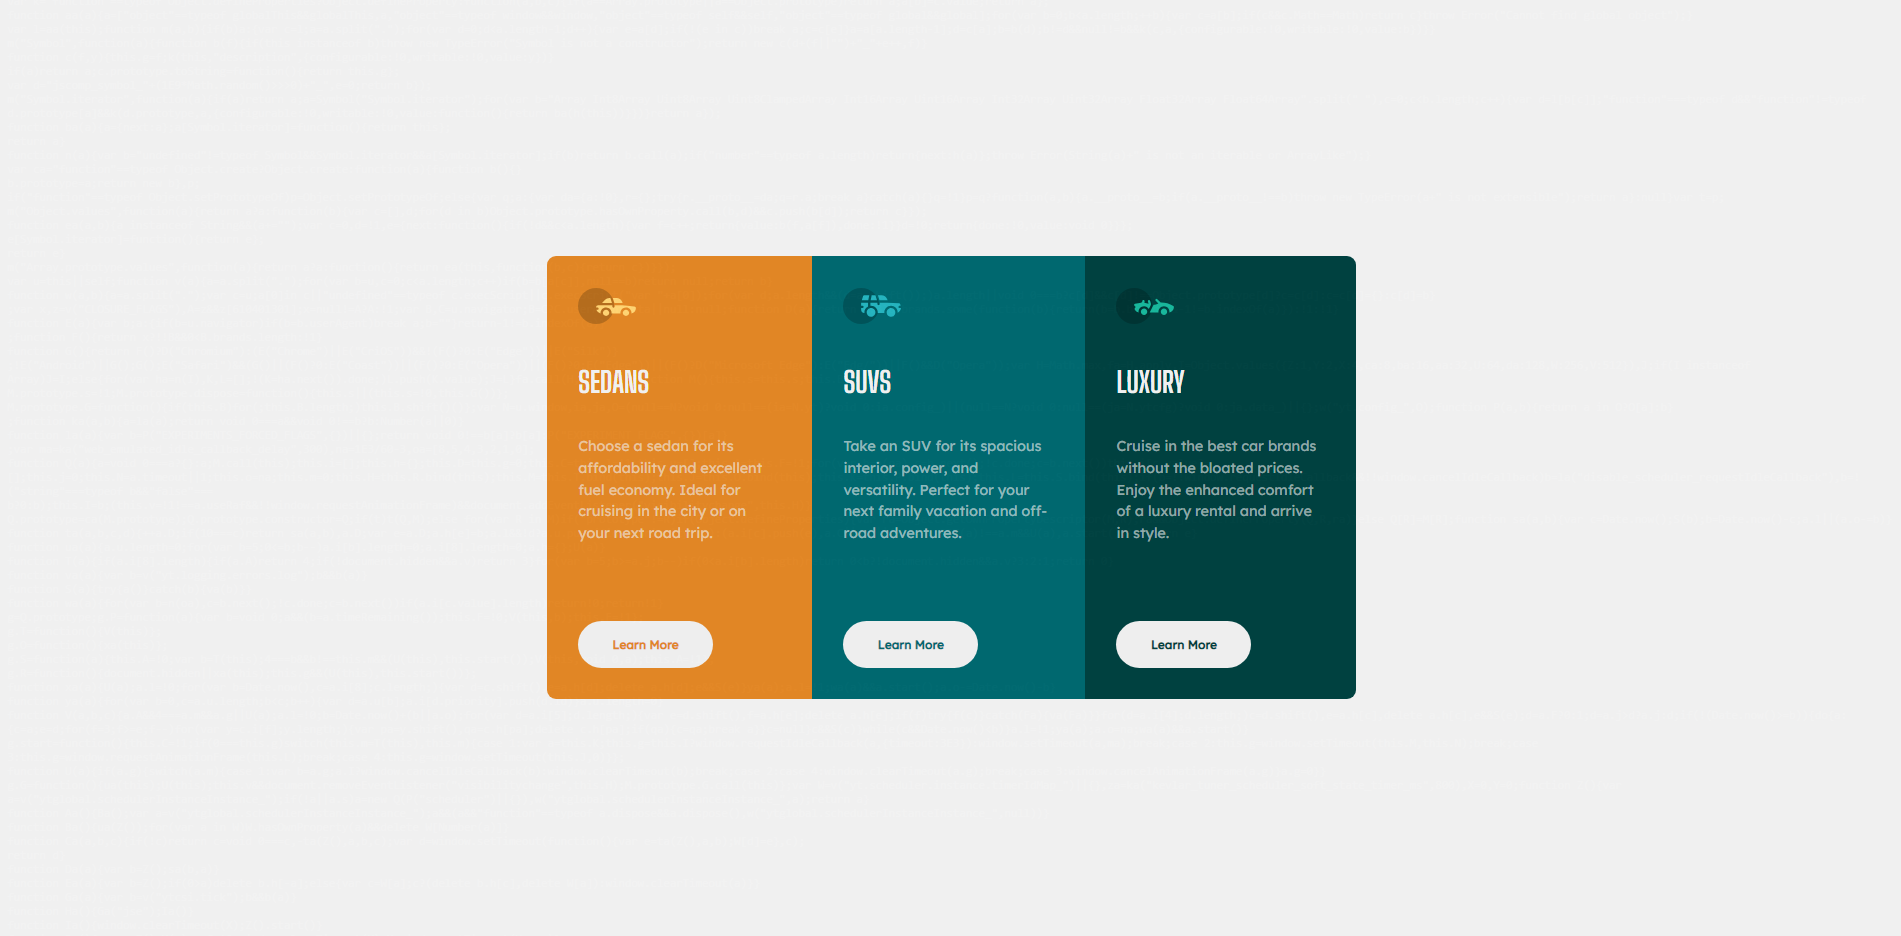
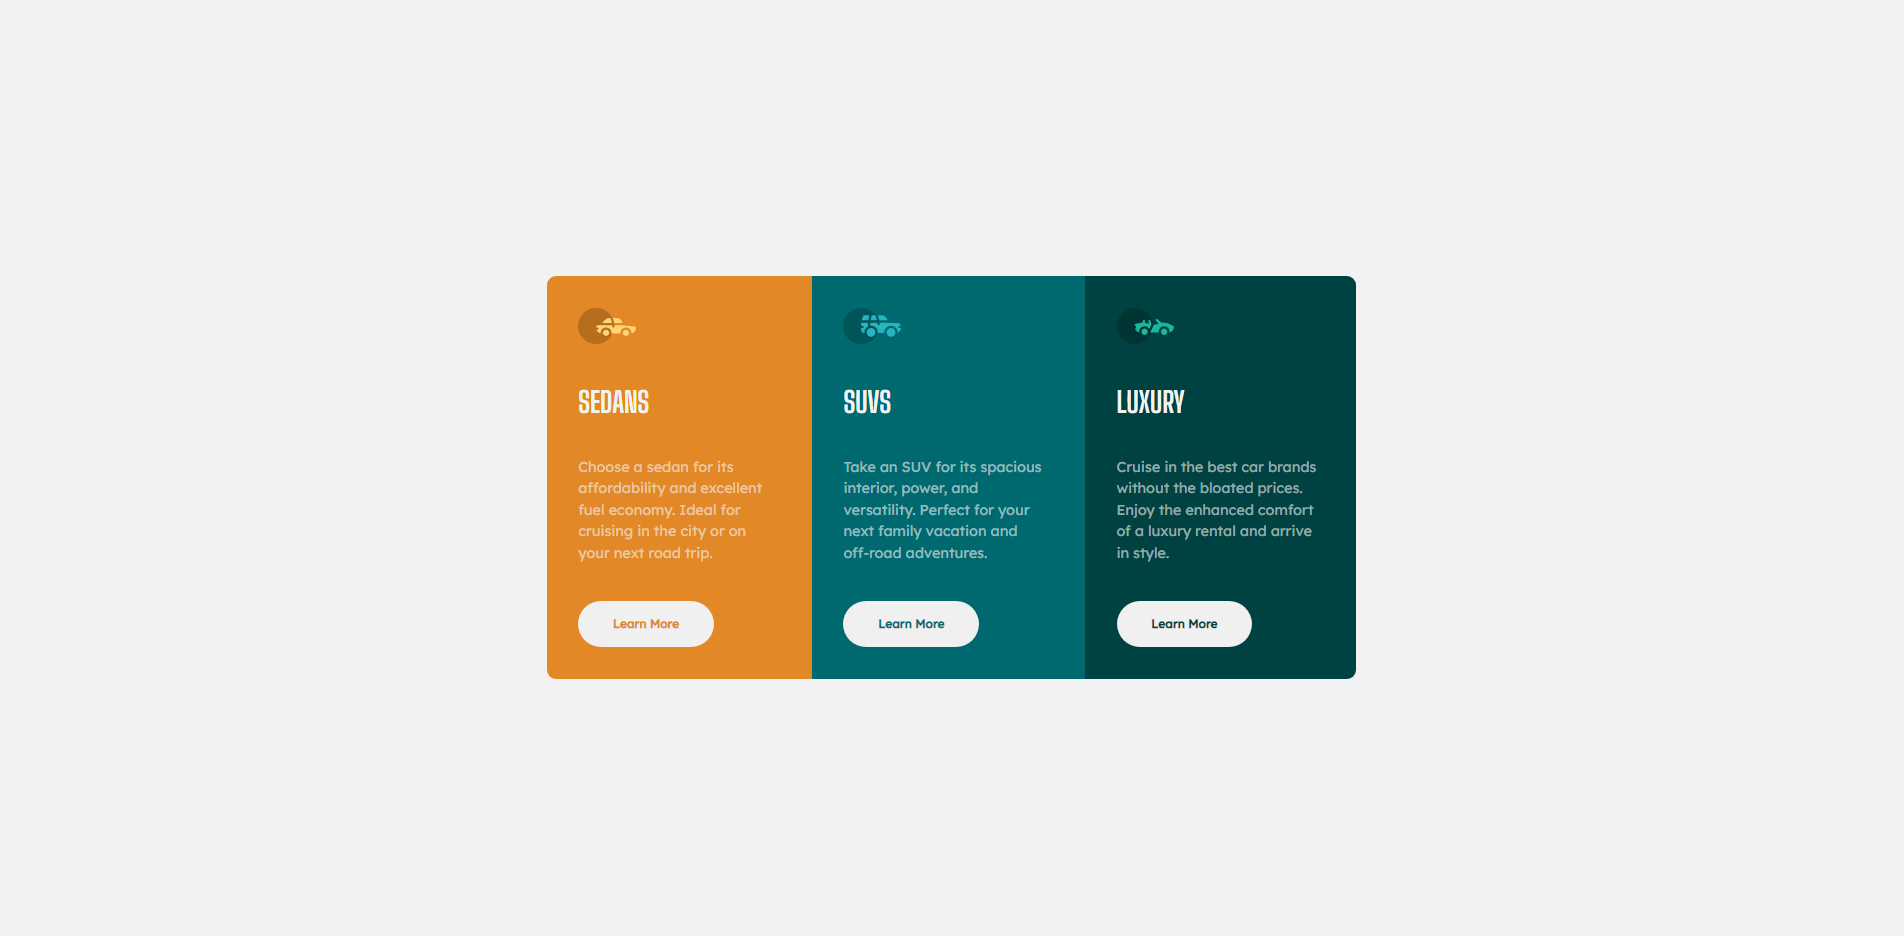
commit

Changed region(s): [[0.2793, 0.2479, 0.7138, 0.7746]]

diff --git a/style.css b/style.css
@@ -45,12 +45,14 @@ body{
     line-height: 1.5;
     opacity: 0.6;
     padding-bottom: 45px;
+    font-size: 1rem;
+    padding: 0px 9px 0px 0px;
 }
 .card_button_sedan,.card_button_suv,.card_button_luxury{
     margin-top: 2.5rem;
     padding: 1.1rem;
     border-radius: 2rem;
-    width: 150px;
+    width: 151px;
     font-family: 'Lexend Deca', sans-serif;
     border: none;
     align-items: center;
